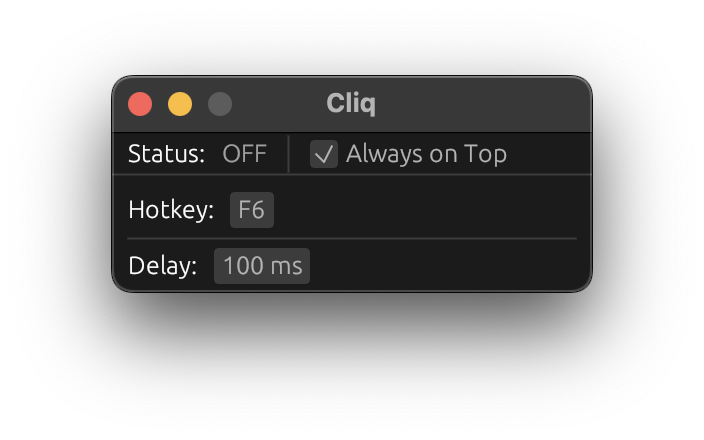
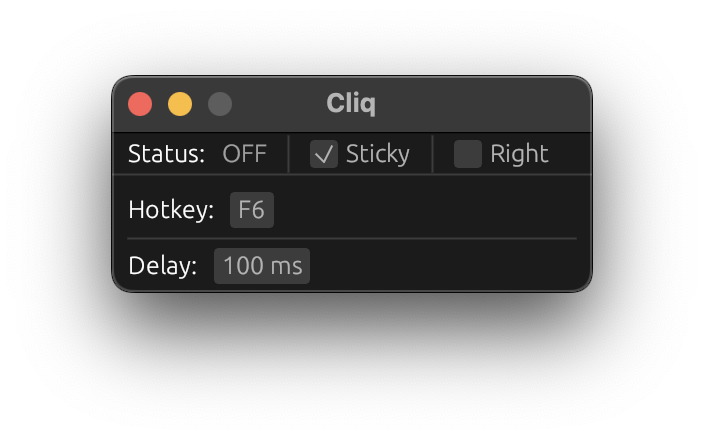
feat: add right-click support

Changed region(s): [[0.4688, 0.2955, 0.7812, 0.3841]]

diff --git a/src/app.rs b/src/app.rs
@@ -15,13 +15,12 @@ pub struct CliqApp {
     pub is_enabled: bool,
     pub last_click: Instant,
     pub is_setting_hotkey: bool,
-    pub is_always_on_top: bool,
+    pub is_sticky: bool,
+    pub is_right_click: bool,
 }
 
 impl Default for CliqApp {
     fn default() -> Self {
-        let is_always_on_top = true;
-
         Self {
             hotkey: HotKey::new(None, Code::F6),
             manager: GlobalHotKeyManager::new().unwrap(),
@@ -31,7 +30,8 @@ impl Default for CliqApp {
             is_enabled: false,
             last_click: Instant::now(),
             is_setting_hotkey: false,
-            is_always_on_top,
+            is_sticky: true,
+            is_right_click: false,
         }
     }
 }
@@ -49,9 +49,12 @@ impl CliqApp {
         if self.is_enabled {
             let now = Instant::now();
             if now.duration_since(self.last_click).as_millis() >= self.delay_ms as u128 {
-                self.enigo
-                    .button(Button::Left, enigo::Direction::Click)
-                    .unwrap();
+                let button = match self.is_right_click {
+                    true => Button::Right,
+                    false => Button::Left,
+                };
+
+                self.enigo.button(button, enigo::Direction::Click).unwrap();
                 self.last_click = now;
             }
         }

diff --git a/src/ui.rs b/src/ui.rs
@@ -35,18 +35,16 @@ fn render_status_panel(app: &mut CliqApp, ctx: &egui::Context) {
 
             ui.separator();
 
-            if ui
-                .checkbox(&mut app.is_always_on_top, "Always on Top")
-                .changed()
-            {
-                ctx.send_viewport_cmd(egui::ViewportCommand::WindowLevel(
-                    if app.is_always_on_top {
-                        egui::WindowLevel::AlwaysOnTop
-                    } else {
-                        egui::WindowLevel::Normal
-                    },
-                ));
+            if ui.checkbox(&mut app.is_sticky, "Sticky").changed() {
+                ctx.send_viewport_cmd(egui::ViewportCommand::WindowLevel(match app.is_sticky {
+                    true => egui::WindowLevel::AlwaysOnTop,
+                    false => egui::WindowLevel::Normal,
+                }));
             }
+
+            ui.separator();
+
+            ui.checkbox(&mut app.is_right_click, "Right").changed();
         });
     });
 }

diff --git a/README.md b/README.md
@@ -4,7 +4,7 @@
   <img src="./assets/logo.png" width="400" />
 </div>
 
-Cliq is a simple cross-platform Rust autoclicker with global hotkey and always on top support. I couldn't find any good autoclickers for Mac (without unnecessary features), so I decided to make my own with the features I needed
+Cliq is a simple cross-platform Rust autoclicker with global hotkey, right-click, and always on top support. I couldn't find any good autoclickers for Mac (without unnecessary features), so I decided to make my own with the features I needed
 
 Cliq is inherently feature-limited, and is not intended to be a "full-featured" autoclicker—it's designed to be lean. Unless someone requests a feature, then I might add it.
 
